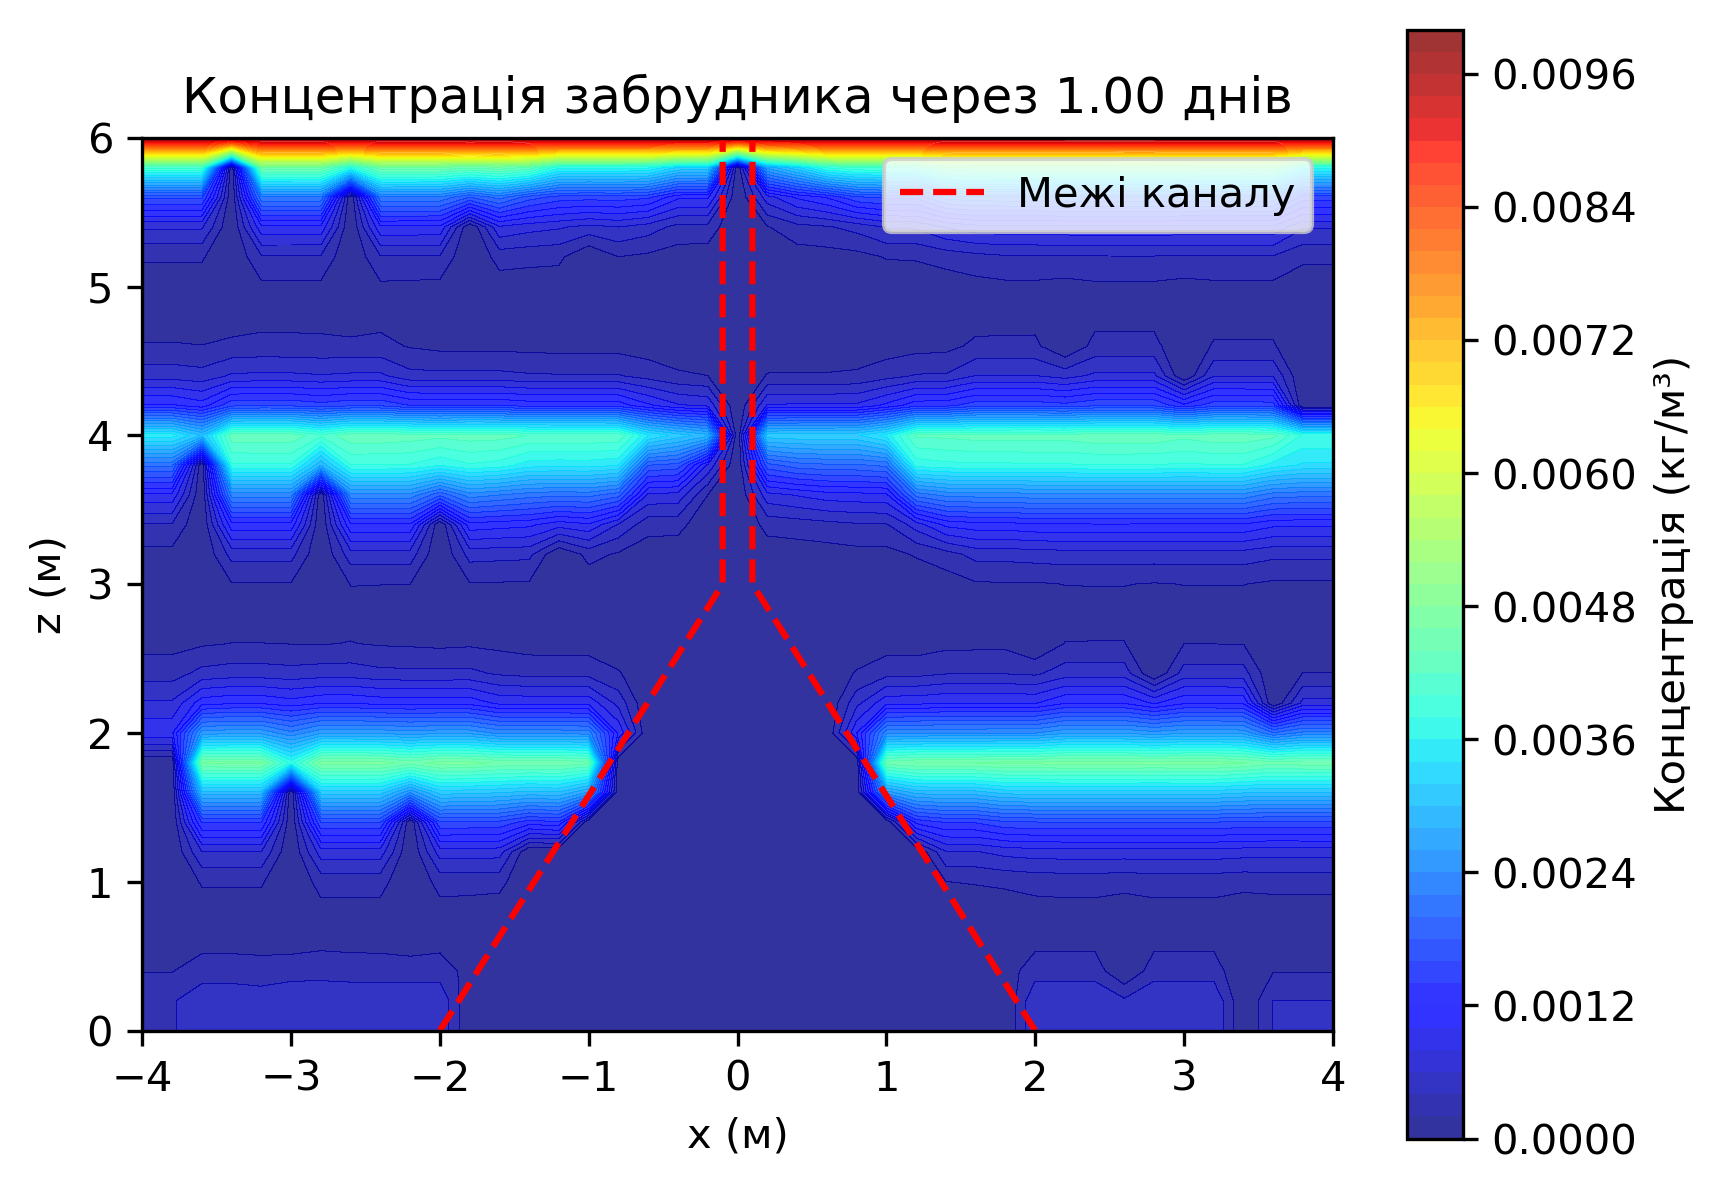
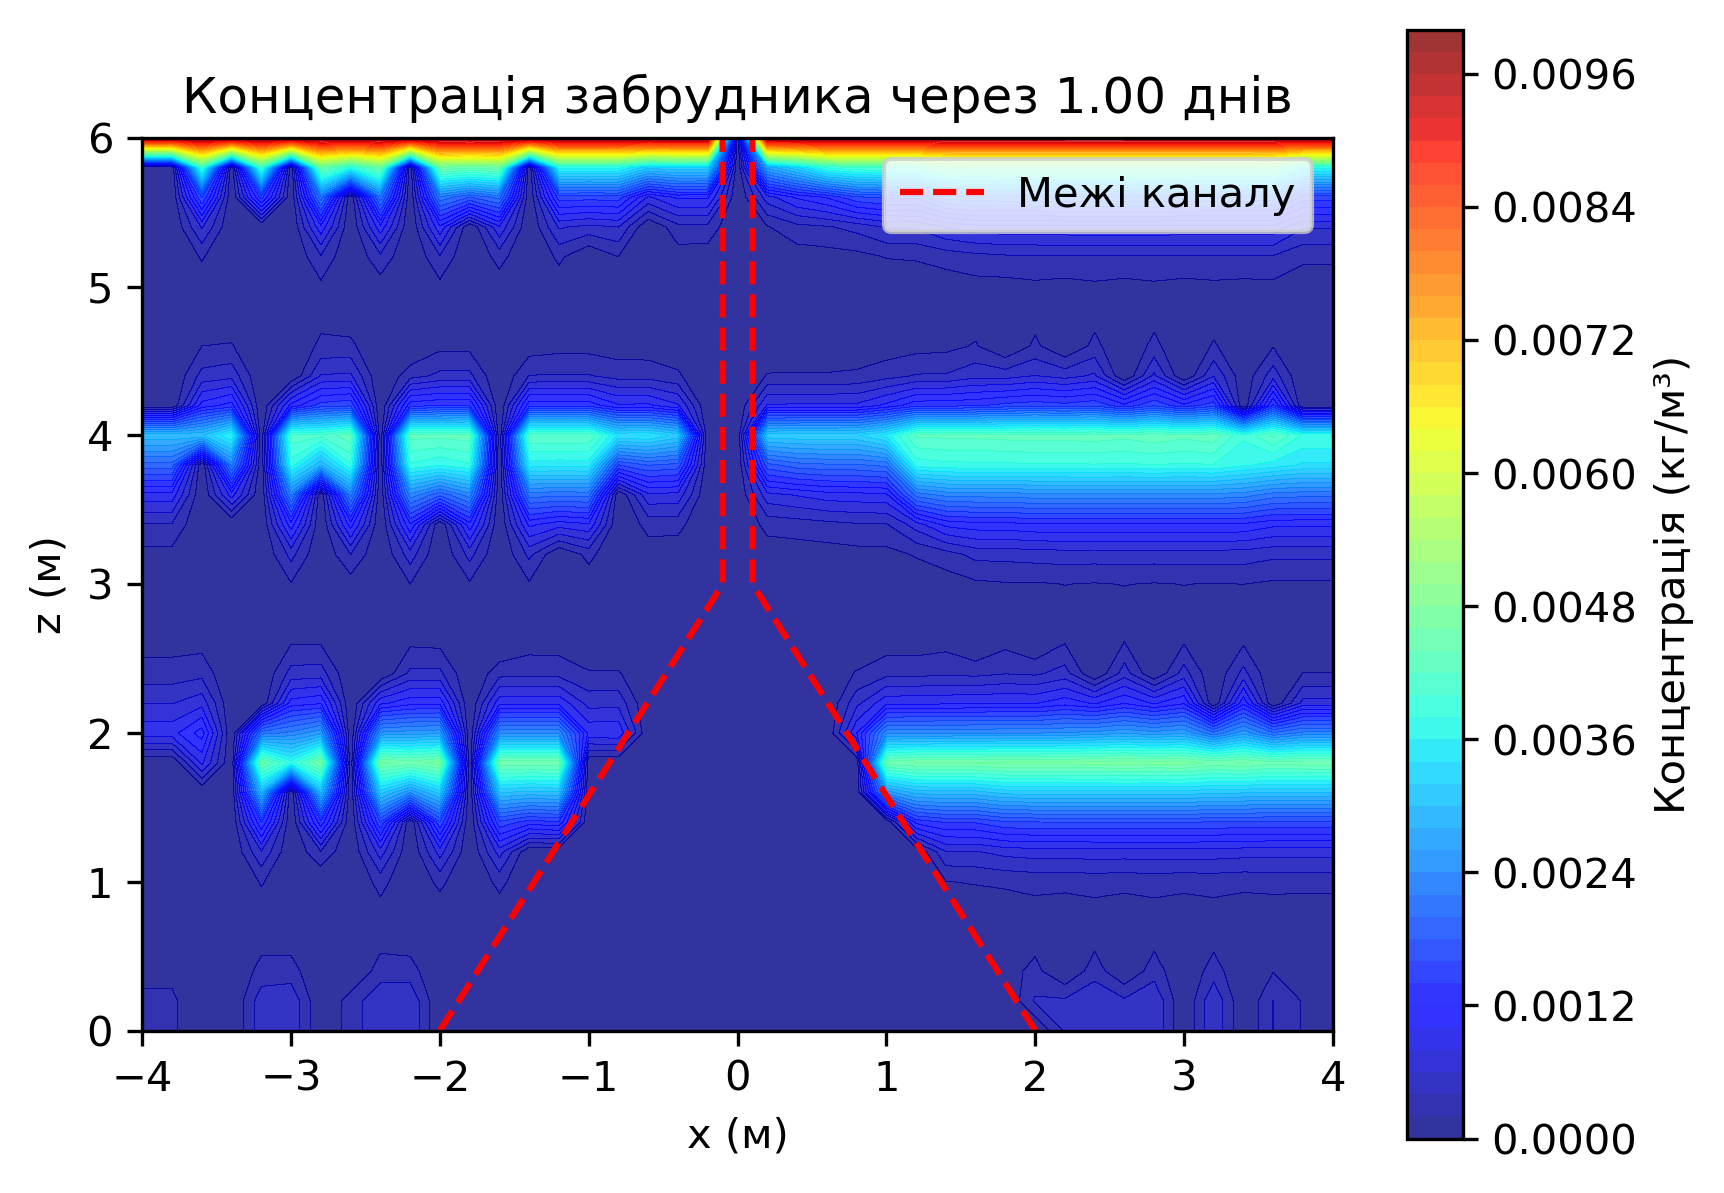
перероблено на 2 різні ділянки: земля й поки пустий канал в якому дифузія не відбувається. все ще горизонтальні полоси слабких спалахів концентрації

diff --git a/main.py b/main.py
@@ -11,7 +11,6 @@ import time
 if not os.path.exists("results"):
     os.makedirs("results")
 
-# Увімкнення інтерактивного режиму для matplotlib
 plt.ion()
 
 # Функція 1: Ініціалізація сітки
@@ -21,18 +20,30 @@ def initialize_grid():
     X, Z = np.meshgrid(x, z)
     return x, z, X, Z
 
-# Функція 2: Ініціалізація концентрації
+# Функція 2: Визначення геометрії каналу та ініціалізація умов
 def initialize_conditions(x, z):
+    # Геометрія каналу (один раз задаємо межі)
     channel_left = np.where(z >= 3, -0.1, -0.1 - (2 - 0.1) / 3 * (3 - z))
     channel_right = np.where(z >= 3, 0.1, 0.1 + (2 - 0.1) / 3 * (3 - z))
 
+    # Маска каналу (True там, де канал)
+    channel_mask = np.zeros((config.nx, config.nz), dtype=bool)
+    for j in range(config.nz):
+        x_left = channel_left[j]
+        x_right = channel_right[j]
+        channel_mask[:, j] = (x >= x_left) & (x <= x_right)
+
+    # Маска землі (True там, де земля)
+    soil_mask = ~channel_mask
+
+    # Ініціалізація концентрації
     q = np.zeros((config.nx, config.nz))
     q[:, -1] = config.q_top  # Початкова концентрація тільки на поверхні
     
-    return q, channel_left, channel_right
+    return q, channel_left, channel_right, channel_mask, soil_mask
 
 # Функція 3: Побудова матриць для неявної схеми (лише дифузія)
-def build_matrices():
+def build_matrices(soil_mask):
     N = config.nx * config.nz
     A = lil_matrix((N, N))  # Матриця для неявної частини
     B = lil_matrix((N, N))  # Матриця для явної частини
@@ -43,75 +54,65 @@ def build_matrices():
     for j in range(config.nz):
         for i in range(config.nx):
             idx = i + j * config.nx
-            
-            # Діагональні елементи
-            A[idx, idx] = 1 + 2 * alpha_x + 2 * alpha_z
-            B[idx, idx] = 1 - 2 * alpha_x - 2 * alpha_z
-            
-            # Елементи для дифузії по x
-            if i > 0:
-                A[idx, idx - 1] = -alpha_x
-                B[idx, idx - 1] = alpha_x
-            if i < config.nx - 1:
-                A[idx, idx + 1] = -alpha_x
-                B[idx, idx + 1] = alpha_x
-            
-            # Елементи для дифузії по z
-            if j > 0:
-                A[idx, idx - config.nx] = -alpha_z
-                B[idx, idx - config.nx] = alpha_z
-            if j < config.nz - 1:
-                A[idx, idx + config.nx] = -alpha_z
-                B[idx, idx + config.nx] = alpha_z
+            if soil_mask[i, j]:  # Дифузія тільки в землі
+                A[idx, idx] = 1 + 2 * alpha_x + 2 * alpha_z
+                B[idx, idx] = 1 - 2 * alpha_x - 2 * alpha_z
+                
+                if i > 0 and soil_mask[i-1, j]:
+                    A[idx, idx - 1] = -alpha_x
+                    B[idx, idx - 1] = alpha_x
+                if i < config.nx - 1 and soil_mask[i+1, j]:
+                    A[idx, idx + 1] = -alpha_x
+                    B[idx, idx + 1] = alpha_x
+                
+                if j > 0 and soil_mask[i, j-1]:
+                    A[idx, idx - config.nx] = -alpha_z
+                    B[idx, idx - config.nx] = alpha_z
+                if j < config.nz - 1 and soil_mask[i, j+1]:
+                    A[idx, idx + config.nx] = -alpha_z
+                    B[idx, idx + config.nx] = alpha_z
+            else:  # У каналі немає дифузії
+                A[idx, idx] = 1
+                B[idx, idx] = 1
     
     A = A.tocsr()
     B = B.tocsr()
     
     return A, B
 
-# Функція 4: Оновлення концентрації (неявна схема, лише дифузія)
-def update_concentration(q, x, z, channel_left, channel_right):
-    A, B = build_matrices()
+# Функція 4: Оновлення концентрації (неявна схема, лише дифузія в землі)
+def update_concentration(q, soil_mask):
+    A, B = build_matrices(soil_mask)
     q_flat = q.flatten()
     rhs = B @ q_flat
     q_new_flat = spsolve(A, rhs)
     q_new = q_new_flat.reshape((config.nx, config.nz))
-    
-    # Обмеження значень у каналі
-    channel_mask = get_channel_mask(x, z, channel_left, channel_right)
-    q_new = np.where(~channel_mask, np.clip(q_new, 0, 1e3), 0.0)  # У каналі концентрація = 0
-    
+    q_new[~soil_mask] = 0.0  # У каналі концентрація завжди 0
+    q_new = np.clip(q_new, 0, 1e3)
     return q_new
 
-# Функція для маски каналу
-def get_channel_mask(x, z, channel_left, channel_right):
-    mask = np.zeros((len(x), len(z)), dtype=bool)
-    for j in range(len(z)):
-        x_left = channel_left[j]
-        x_right = channel_right[j]
-        mask[:, j] = (x >= x_left) & (x <= x_right)
-    return mask
-
 # Функція 5: Застосування граничних умов
-def apply_boundary_conditions(q, x, z, channel_left, channel_right):
+def apply_boundary_conditions(q, soil_mask):
     q_new = q.copy()
     q_new[:, -1] = config.q_top  # Верхня межа (поверхня)
     q_new[:, 0] = q_new[:, 1]    # Нижня межа: ∂q/∂z = 0
     q_new[0, :] = q_new[1, :]    # Ліва межа: ∂q/∂x = 0
     q_new[-1, :] = q_new[-2, :]  # Права межа: ∂q/∂x = 0
+    q_new[~soil_mask] = 0.0      # У каналі концентрація 0
     return q_new
 
 # Функція 6: Перевірка умов зупинки
 def check_stopping_condition(q, time):
     min_q = np.min(q)
+    max_q = np.max(q)
     if np.isnan(min_q):
-        print(f"Знайдено nan на часі {time / (3600 * 24):.2f} днів. Зупиняємо моделювання.")
+        print(f"Знайдено nan на часі {time / (3600 * 24):.2f} днів.")
         return True
     if np.all(q >= config.q_threshold):
-        print(f"Увесь зразок забруднений (> {config.q_threshold} кг/м³) через {time / (3600 * 24):.2f} днів")
+        print(f"Увесь зразок забруднений (> {config.q_threshold}) через {time / (3600 * 24):.2f} днів")
         return True
     if time % 50000 == 0:
-        print(f"Час: {time / (3600 * 24):.2f} днів, Мінімальна концентрація: {min_q:.4f} кг/м³")
+        print(f"Час: {time / (3600 * 24):.2f} днів, Min: {min_q:.4f}, Max: {max_q:.4f}")
     return False
 
 # Функція 7: Візуалізація з межами областей і збереженням
@@ -136,25 +137,23 @@ def visualize_results_with_grid(X, Z, q, time, channel_left, channel_right, z, t
 # Основна функція моделювання
 def run_simulation():
     x, z, X, Z = initialize_grid()
-    q, channel_left, channel_right = initialize_conditions(x, z)
+    q, channel_left, channel_right, channel_mask, soil_mask = initialize_conditions(x, z)
     
     snapshot_times = [1 * 24 * 3600, 10 * 24 * 3600]
     snapshots_taken = {t: False for t in snapshot_times}
     
     time = 0
-    visualization_interval = 5000  # Оновлювати візуалізацію кожні 5000 секунд
+    visualization_interval = 5000
     
     while time < config.max_time:
-        q_new = update_concentration(q, x, z, channel_left, channel_right)
-        q_new = apply_boundary_conditions(q_new, x, z, channel_left, channel_right)
+        q_new = update_concentration(q, soil_mask)
+        q_new = apply_boundary_conditions(q_new, soil_mask)
         q = q_new
         time += config.dt
         
-        # Періодичне оновлення візуалізації
         if time % visualization_interval < config.dt:
             visualize_results_with_grid(X, Z, q, time, channel_left, channel_right, z, save=False)
         
-        # Збереження знімків у потрібні моменти
         for snapshot_time in snapshot_times:
             if not snapshots_taken[snapshot_time] and abs(time - snapshot_time) < config.dt:
                 visualize_results_with_grid(X, Z, q, time, channel_left, channel_right, z, save=True)
@@ -163,7 +162,6 @@ def run_simulation():
         if check_stopping_condition(q, time):
             break
     
-    # Фінальна візуалізація
     visualize_results_with_grid(X, Z, q, time, channel_left, channel_right, z, title="Концентрація забрудника (кінцевий результат)", save=True)
     plt.ioff()
     plt.show()
